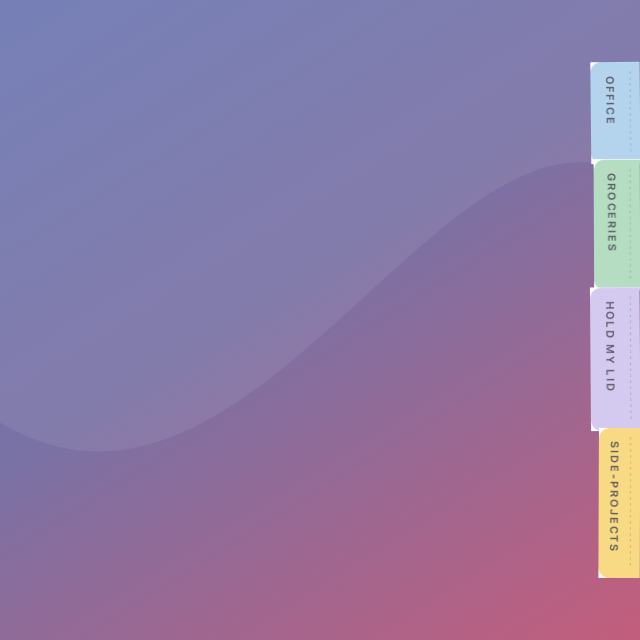
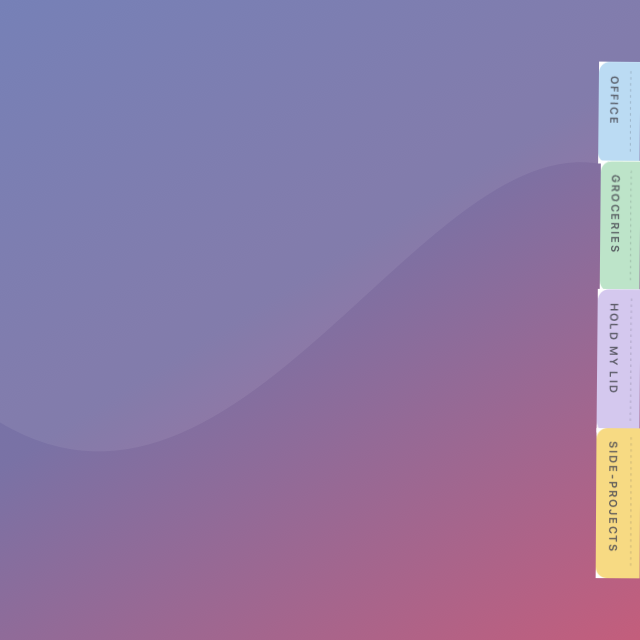
The plus and the pin are made of the same stuff as the deck
They were white at 80% opacity with no shadow. Over a coloured wallpaper
that is neither the app nor the desktop — the purple underneath tints
them, and they read as glass sitting among paper. Sampling the drawing
the deck is designed after: an opaque neutral #E3E4EA disc, a mid-grey
glyph, and a shadow soft enough to notice only by measuring the
background 3 px below it, which comes out 4% darker.

So: opaque, the same slate the tabs are lettered in, and a smaller
relative of the card's shadow. Both controls draw from one style now,
because they had two copies of the same four lines and copies drift.

The size needed nothing. The reference's disc is 51 px against tabs of
63–83, and Ledge's is 26 pt against 38 — 0.70 and 0.68 of a tab. It was
already right.

The rest of this commit is a regression the buttons only appeared to
cause, and did not.

Making the labels bigger made the tab stack taller, and past a point the
panel's length and position both clamp to the display. The stack is
centred inside a panel that is itself centred, which cancels out exactly
until one of those clamps bites. Two commits ago that was a 0.4 pt drift
I measured, bounded with a check and deliberately left alone. With the
new labels it was 64 pt — the same "the strip moves" that was reported in
the first place, brought back by my own change to the type.

The stack is anchored to the screen now rather than positioned inside the
[…]

Changed region(s): [[0.9062, 0.0938, 1.0, 0.9062]]

diff --git a/Sources/LedgeApp/DeckController.swift b/Sources/LedgeApp/DeckController.swift
@@ -477,15 +477,33 @@ final class DeckController {
 
         // The stack, laid along the edge, each tab as long as its own title.
         let heights = tabHeights()
-        var along = fanned
-            ? max(Metrics.panelPadding,
-                  ((horizontal ? bounds.width : bounds.height) - stackContentHeight) / 2)
-            : Metrics.panelPadding
+        // Where the stack sits is anchored to the screen, not to the panel.
+        //
+        // The panel's length depends on the note that is open — its card has to
+        // fit — and both the length and the position are clamped to the display.
+        // Centring the stack inside a panel that is itself centred cancels out
+        // only while neither clamp bites; the moment one does, the strip slides
+        // as you move between notes of different sizes. It was a rounding error
+        // until the labels grew and the stack got tall enough for the clamps to
+        // matter, and then it was 64 pt.
+        var along: CGFloat = Metrics.panelPadding
+        if fanned {
+            let area = strip.placementFrame
+            let wanted = horizontal
+                ? (area.midX - stackContentHeight / 2) - panel.frame.minX
+                : panel.frame.maxY - (area.midY + stackContentHeight / 2)
+            let room = (horizontal ? bounds.width : bounds.height) - stackContentHeight
+            along = max(Metrics.panelPadding,
+                        min(wanted, max(Metrics.panelPadding, room - Metrics.panelPadding)))
+        }
 
         for (i, tab) in tabs.enumerated() {
             let length = i < heights.count ? heights[i] : Metrics.Tab.minHeight
             if i > 0 { along -= min(CGFloat(tab.jitter.tabOverlap), length * 0.2) }
-            let poke = CGFloat(tab.jitter.tabProtrusion)
+            // Scaled like everything else. It was raw, which nobody noticed
+            // while the range was 2.5 pt; at 12 pt a small deck would poke out
+            // proportionally half again as far as a large one.
+            let poke = Metrics.t(CGFloat(tab.jitter.tabProtrusion))
             let depth = Metrics.Tab.width + poke
 
             tab.mirrored = mirrored

diff --git a/Sources/LedgeApp/DeckControlStyle.swift b/Sources/LedgeApp/DeckControlStyle.swift
@@ -1,0 +1,36 @@
+import AppKit
+
+/// How the deck's two controls are made — the plus and the pin.
+///
+/// They used to be white at 80% opacity with no shadow, which over a coloured
+/// wallpaper is neither the app nor the desktop: the purple underneath tints
+/// them and they read as glass sitting on paper. Everything else in the deck is
+/// opaque and casts a shadow, so these do too.
+///
+/// One place, because there were two copies of the same four lines and copies
+/// drift.
+@MainActor
+enum DeckControlStyle {
+    /// Opaque, and neutral rather than white: sampled off the drawing the deck
+    /// is designed after, which uses #E3E4EA.
+    static let fill = NSColor.srgb(0xE7E8EC)
+    static let fillHovering = NSColor.srgb(0xF2F3F6)
+    /// The same slate the tabs are lettered in.
+    static var ink: NSColor { Palette.labelInk(.butter) }
+
+    /// A smaller relative of the card's shadow, so a control sits on the desk
+    /// the way a note does.
+    static func shadow() -> NSShadow {
+        let s = NSShadow()
+        s.shadowColor = NSColor.black.withAlphaComponent(0.22)
+        s.shadowBlurRadius = 7
+        s.shadowOffset = NSSize(width: 0, height: -2)
+        return s
+    }
+
+    /// The disc, drawn into the current context.
+    static func disc(in bounds: NSRect, hovering: Bool) {
+        (hovering ? fillHovering : fill).setFill()
+        NSBezierPath(ovalIn: bounds).fill()
+    }
+}

diff --git a/Sources/LedgeApp/PlusButton.swift b/Sources/LedgeApp/PlusButton.swift
@@ -8,6 +8,13 @@ final class PlusButton: NSView {
 
     override var isFlipped: Bool { true }
 
+    init() {
+        super.init(frame: .zero)
+        shadow = DeckControlStyle.shadow()
+    }
+
+    required init?(coder: NSCoder) { fatalError("not used") }
+
     var isInteractive = false {
         didSet {
             setAccessibilityElement(isInteractive)
@@ -35,11 +42,9 @@ final class PlusButton: NSView {
     override func mouseDown(with event: NSEvent) { guard isInteractive else { return }; flashPress(); onClick?() }
 
     override func draw(_ dirtyRect: NSRect) {
-        let circle = NSBezierPath(ovalIn: bounds)
-        NSColor(white: 1, alpha: hovering ? 0.94 : 0.80).setFill()
-        circle.fill()
+        DeckControlStyle.disc(in: bounds, hovering: hovering)
 
-        let ink = NSColor(white: 0.22, alpha: 1)
+        let ink = DeckControlStyle.ink
         ink.setStroke()
         let arm: CGFloat = bounds.width * 0.24
         let path = NSBezierPath()

diff --git a/Sources/LedgeApp/PinButton.swift b/Sources/LedgeApp/PinButton.swift
@@ -29,6 +29,13 @@ final class PinButton: NSView {
 
     override var isFlipped: Bool { true }
 
+    init() {
+        super.init(frame: .zero)
+        shadow = DeckControlStyle.shadow()
+    }
+
+    required init?(coder: NSCoder) { fatalError("not used") }
+
     override func hitTest(_ point: NSPoint) -> NSView? {
         isInteractive ? super.hitTest(point) : nil
     }
@@ -69,10 +76,9 @@ final class PinButton: NSView {
     override func resetCursorRects() { addCursorRect(bounds, cursor: .openHand) }
 
     override func draw(_ dirtyRect: NSRect) {
-        NSColor(white: 1, alpha: hovering || isPinned ? 0.94 : 0.80).setFill()
-        NSBezierPath(ovalIn: bounds).fill()
+        DeckControlStyle.disc(in: bounds, hovering: hovering || isPinned)
 
-        let ink = NSColor(white: 0.22, alpha: isPinned ? 1 : 0.62)
+        let ink = DeckControlStyle.ink.withAlphaComponent(isPinned ? 1 : 0.62)
         ink.setStroke()
         ink.setFill()
 

diff --git a/Sources/LedgeApp/SelfTest.swift b/Sources/LedgeApp/SelfTest.swift
@@ -2170,7 +2170,7 @@ enum SelfTest {
         check(fan.tabs.count > 1, "the demo folder has a deck to fan")
         check(fan.tabs.allSatisfy { mirrored ? abs($0.minX) < 0.5 : abs($0.maxX - fan.panel.width) < 0.5 },
               "every tab is flush with the screen edge")
-        check(fan.tabs.allSatisfy { $0.width >= Metrics.Tab.width && $0.width <= Metrics.Tab.width + Metrics.z(CGFloat(Jitter.maxProtrusion)) + 0.5 },
+        check(fan.tabs.allSatisfy { $0.width >= Metrics.Tab.width && $0.width <= Metrics.Tab.width + Metrics.t(CGFloat(Jitter.maxProtrusion)) + 0.5 },
               "tabs are \(Int(Metrics.Tab.width)) pt wide, plus their own protrusion")
         let lengths = fan.tabs.map(\.height)
         let floor = Metrics.Tab.width * 0.9
